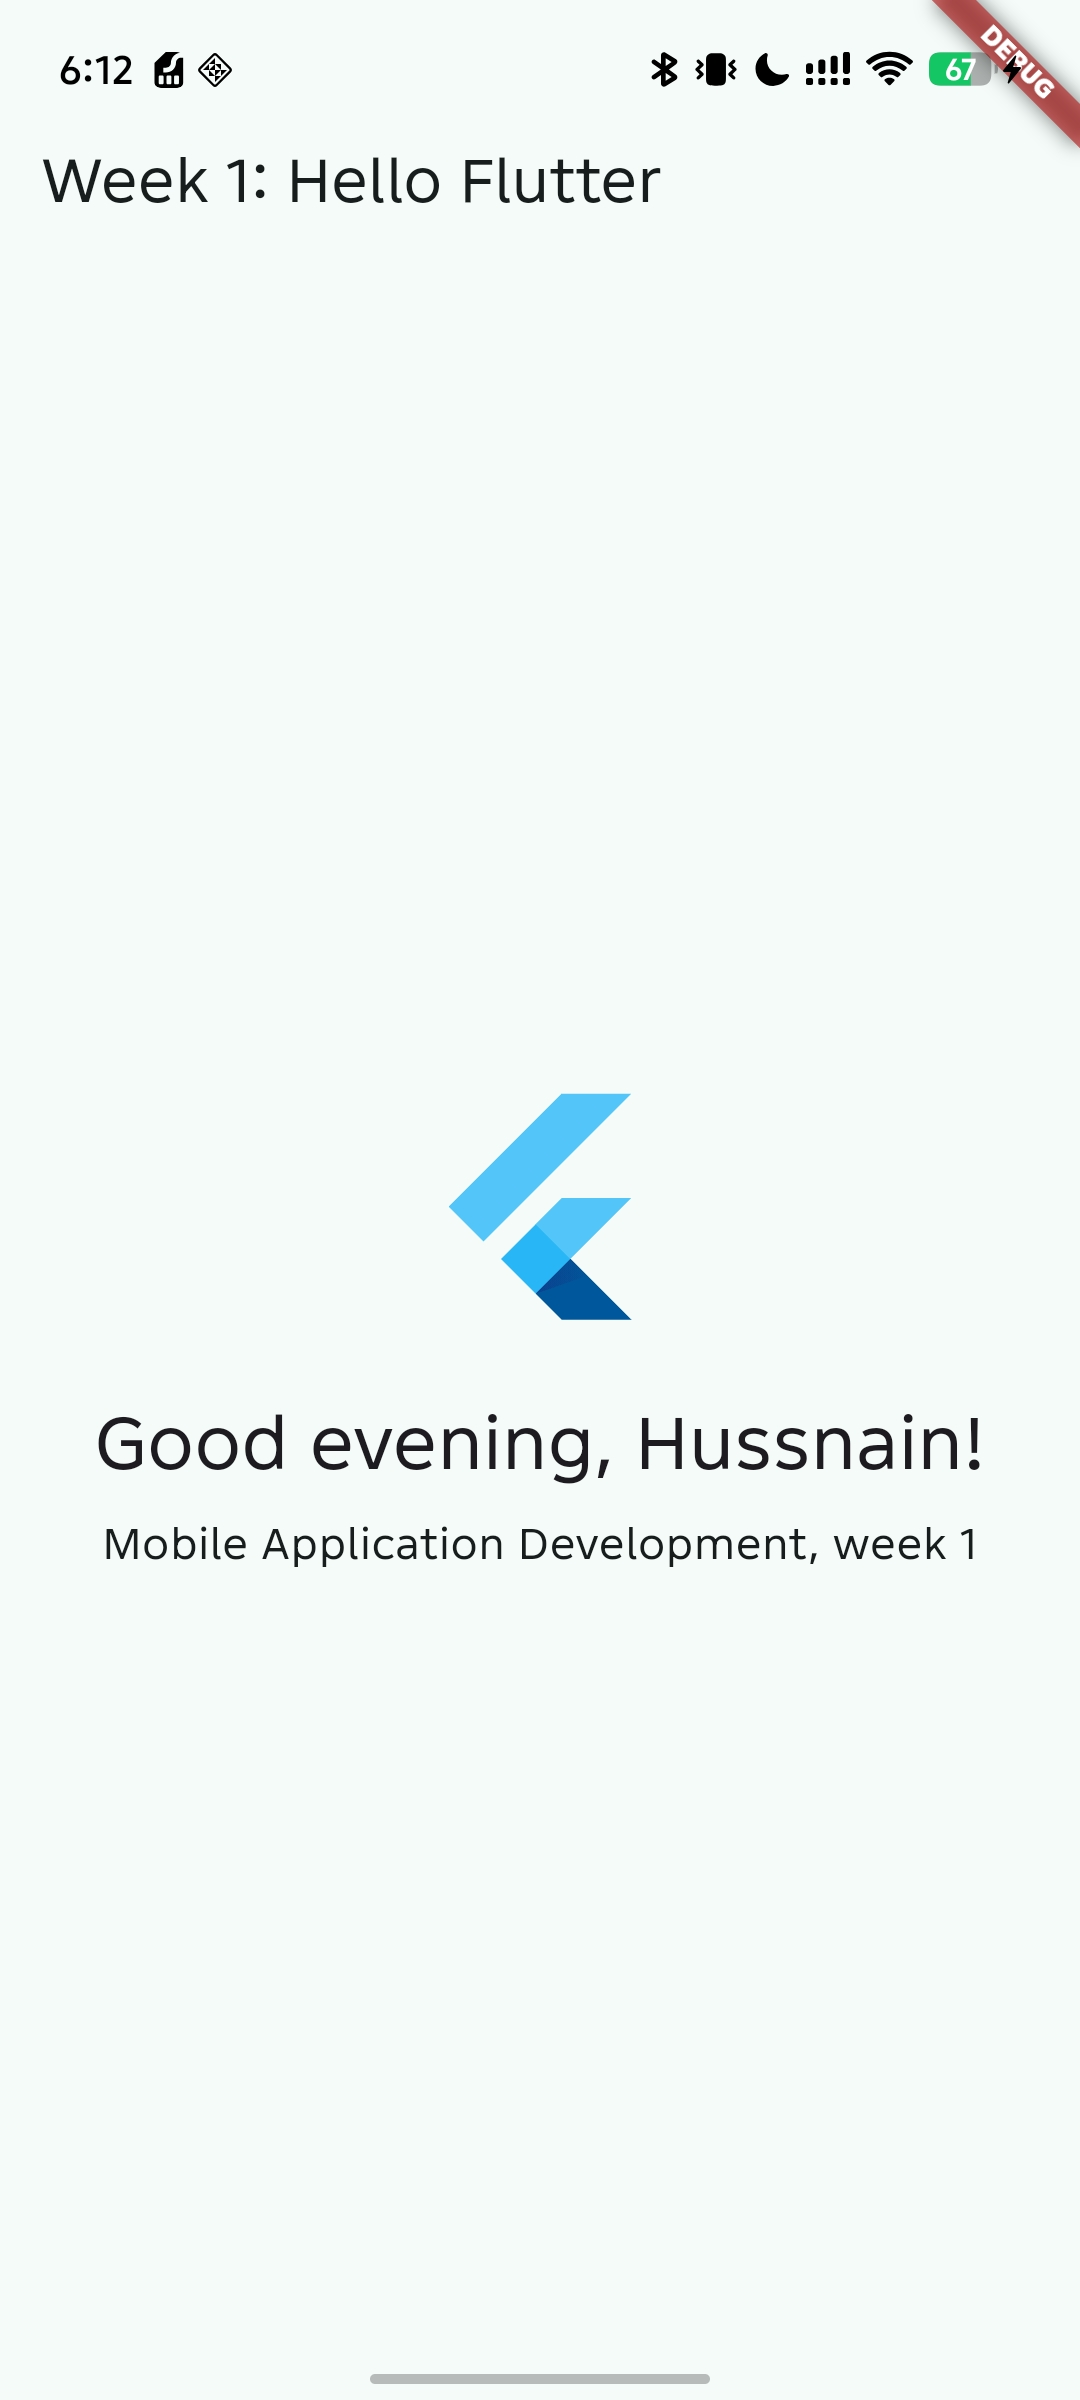
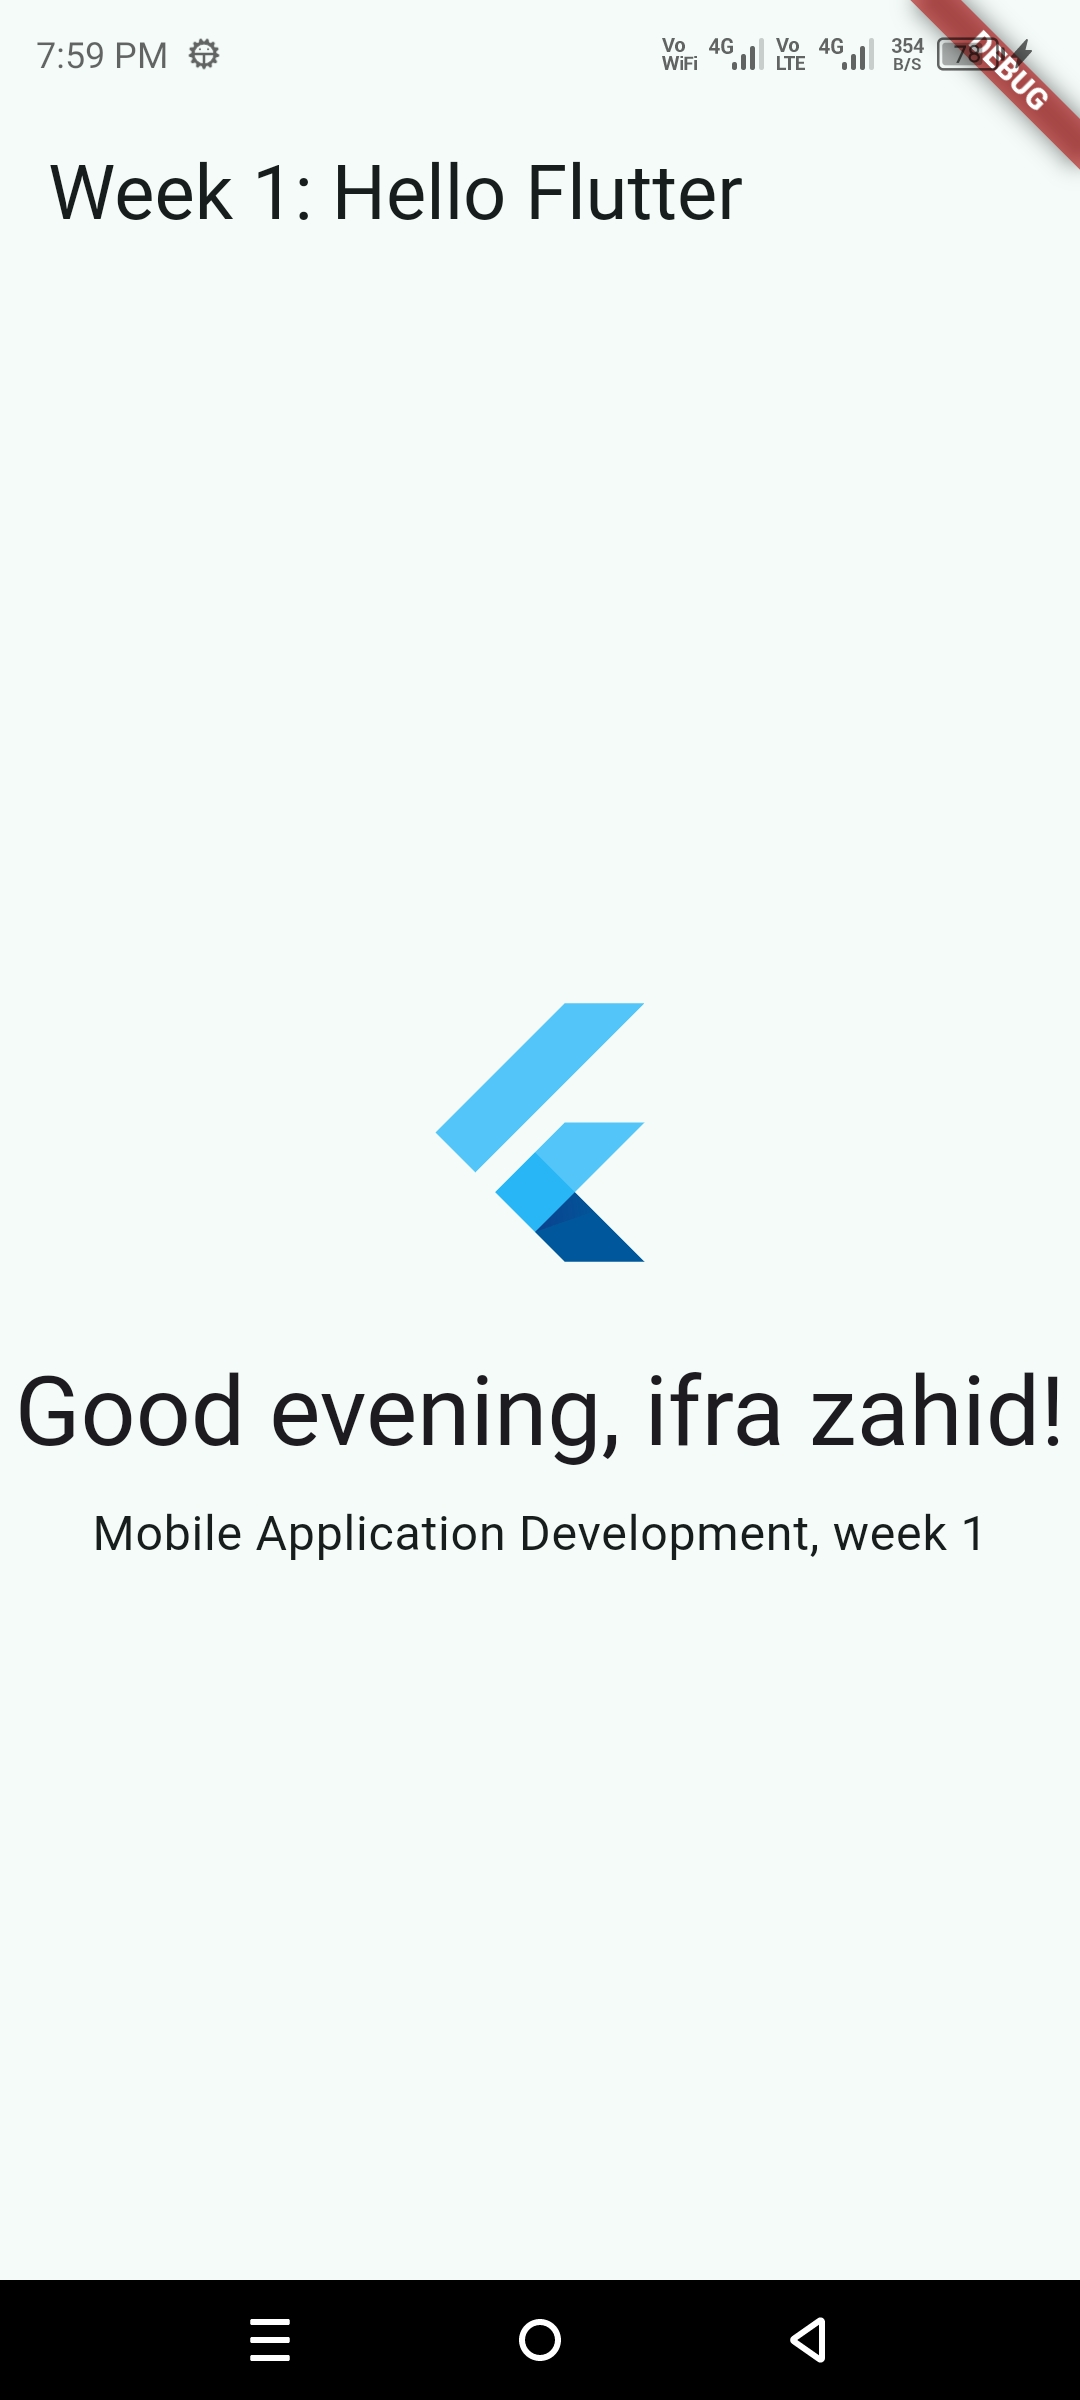
Update assignment files

diff --git a/lib/main.dart b/lib/main.dart
@@ -1,7 +1,7 @@
 import 'package:material_ui/material_ui.dart';
 
 // TODO 1: Replace 'Your Name' with your own name.
-const String studentName = 'Hussnain';
+const String studentName = 'ifra zahid';
 
 // TODO 2: Finish this function. It must return:
 //   'Good morning'   when hour is less than 12,
